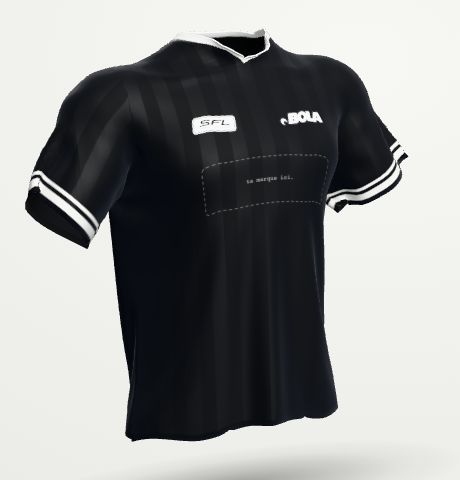
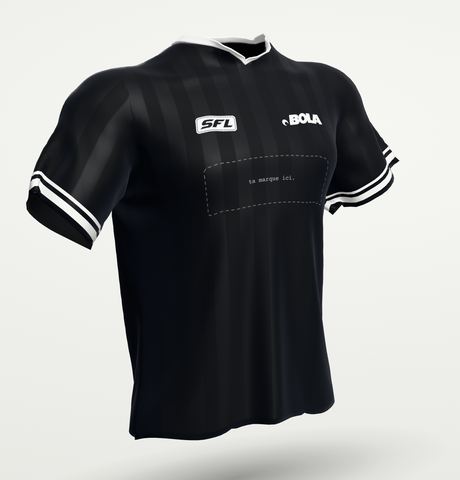
Un seul sigle SFL, redessiné à la graisse et à l'angle de BOLA (#117)
- public/bola/sfl.svg généré par tools/sigle-sfl.ts : les trois lettres du logo d'origine (S en barres et panses rondes, F au coin arrondi, L au long pied, bouts de barres en biseau), en contours arrondis cisaillés, italique de 21,8° (tan 0,4), métriques verticales du logo BOLA ; plus de ligne « — SUNDAY FIVE LEAGUE — » illisible ; --serre pour le badge du maillot et les documents
- SigleLigue : largeur SFL 54,4 pour 18 px ; à hauteur égale, SFL, BOLA et BOLA TEAM ont des lettres de la même taille (en-tête Actus, menu des ligues, Map, fiche, Ouvrir un match)
- Saisons archivées : la pastille « SFL » en mono devient le sigle
- Icônes : les routes icon-192.png et icon-512.png (« SFL » en police système) retirées, les PNG du symbole Bola de public/ servis ; favicon.ico = symbole Bola au lieu du triangle de Vercel
- Studio photo : public/avatars/maillot-blanc.png et maillot-noir.png refaits avec le nouveau badge (sabrilab/bola-site#1)

Claude-Session: https://claude.ai/code/session_01RCU4BRvNHRVEJXysszA2Dm

diff --git a/tools/sigle-sfl.ts b/tools/sigle-sfl.ts
@@ -1,0 +1,193 @@
+// Le sigle SFL (Sunday Five League), construit au compas et à la règle.
+//
+// Pourquoi : jusqu'au 23/10/2026, l'app montrait un tracé automatique du logo
+// SFL (vectorisé depuis une image de 339 × 99 px du PDF « SFL X KIPSTADIUM »),
+// avec la ligne « — SUNDAY FIVE LEAGUE — » en dessous, illisible sous 30 px.
+// Ailleurs vivaient d'autres SFL : en Saira, en Inter, en police système…
+// Sabri a voulu un seul sigle, utilisé partout.
+//
+// Ce que ce script dessine : les trois lettres du logo d'origine (le S en
+// barres horizontales et panses rondes, le F au coin arrondi, le L au long
+// pied, les bouts de barres coupés en biseau), redessinées proprement à la
+// graisse et à l'angle du logo BOLA :
+//   · italique de 21,8° (l'angle du B de la charte, tan = 0,4) ;
+//   · fûts de 45 % de la hauteur de capitale, barres de 24,5 % (BOLA : 44 % et
+//     21 à 25 %) ;
+//   · métriques verticales de public/bola/logo-*.svg : un viewBox de 237 de
+//     haut, capitales de 22,36 à 213,47. À hauteur égale (SigleLigue), SFL,
+//     BOLA et BOLA TEAM ont donc des lettres de la même taille.
+//
+// Chaque lettre est un contour à coins arrondis, tracé droit puis cisaillé :
+// x' = x + (100 − y) × 0,4 ; les arcs deviennent des courbes de Bézier, que le
+// cisaillement garde exactes.
+//
+//   npx tsx tools/sigle-sfl.ts                    écrit public/bola/sfl.svg
+//   npx tsx tools/sigle-sfl.ts <fichier>          l'écrit ailleurs
+//   npx tsx tools/sigle-sfl.ts --serre <fichier>  cadré au plus près des lettres,
+//     sans les marges du logo BOLA : le badge du maillot (bola-site,
+//     public/sponsoring/sfl.svg), qui pose le sigle dans sa propre pastille.
+
+import { writeFileSync } from "node:fs";
+import { join } from "node:path";
+
+/** Réglages du dessin, dans un repère de 100 de hauteur de capitale. */
+const P = {
+  k: 0.4, // italique : tan(21,8°)
+  T: 24.5, // épaisseur des barres
+  V: 45, // épaisseur des fûts (largeur horizontale)
+  coupe: 0.7, // biseau des bouts de barres : recul horizontal par unité d'épaisseur
+  ro: 2, // coins extérieurs
+  ri: 3, // coins intérieurs
+  rw: 2.5, // pointes des biseaux
+  RF: 24, // le coin haut gauche du F
+  WS: 128, // largeurs : S, F (barre du haut), F (barre du milieu), L
+  WF: 114,
+  WFm: 90,
+  WL: 106,
+  gSF: 8, // approches : S–F, F–L
+  gFL: 6,
+};
+
+// Métriques verticales du logo BOLA (viewBox 1000 × 237).
+const HAUT = 237;
+const BASE = 213.47;
+const CAP = 191.108;
+const MARGE = 18;
+
+type Sommet = [x: number, y: number, r: number];
+type Pt = [number, number];
+type Segment = { L: Pt } | { C: [Pt, Pt, Pt] };
+
+function glyphes(): Sommet[][] {
+  const { T, V, ro, ri, rw, WS, WF, WFm, WL } = P;
+  const C = (100 - 3 * T) / 2; // les deux contreformes du S
+  const m0 = T + C; // la barre du milieu, de m0 à m1 (S et F)
+  const m1 = m0 + T;
+  const d = P.coupe * T;
+  const RS = m1 / 2; // panses du S en demi-cercles
+  const rc = C / 2;
+  const S: Sommet[] = [
+    [WS, 0, rw], [0, 0, RS], [0, m1, RS], [WS - V, m1, rc], [WS - V, 100 - T, rc],
+    [d, 100 - T, rw], [0, 100, rw], [WS, 100, RS], [WS, m0, RS], [V, m0, rc], [V, T, rc],
+    [WS - d, T, rw],
+  ];
+  const xF = WS + P.gSF;
+  const F: Sommet[] = [
+    [0, 0, P.RF], [WF, 0, rw], [WF - d, T, rw], [V, T, ri], [V, m0, ri], [WFm, m0, rw],
+    [WFm - d, m1, rw], [V, m1, ri], [V, 100, ro], [0, 100, ro],
+  ];
+  const xL = xF + WF + P.gFL;
+  const L: Sommet[] = [[0, 0, ro], [V, 0, ro], [V, 100 - T, ri], [WL, 100 - T, rw], [WL - d, 100, rw], [0, 100, ro]];
+  const decale = (g: Sommet[], dx: number) => g.map(([x, y, r]) => [x + dx, y, r] as Sommet);
+  return [S, decale(F, xF), decale(L, xL)];
+}
+
+/** Arc de cercle de a0 à a1 (radians) en cubiques d'au plus un quart de tour. */
+function arc(cx: number, cy: number, r: number, a0: number, a1: number): [Pt, Pt, Pt][] {
+  const n = Math.max(1, Math.ceil(Math.abs(a1 - a0) / (Math.PI / 2) - 1e-9));
+  const da = (a1 - a0) / n;
+  const out: [Pt, Pt, Pt][] = [];
+  for (let i = 0; i < n; i++) {
+    const s = a0 + i * da;
+    const e = s + da;
+    const h = (4 / 3) * Math.tan((e - s) / 4);
+    const p0: Pt = [cx + r * Math.cos(s), cy + r * Math.sin(s)];
+    const p3: Pt = [cx + r * Math.cos(e), cy + r * Math.sin(e)];
+    out.push([
+      [p0[0] - h * r * Math.sin(s), p0[1] + h * r * Math.cos(s)],
+      [p3[0] + h * r * Math.sin(e), p3[1] - h * r * Math.cos(e)],
+      p3,
+    ]);
+  }
+  return out;
+}
+
+/** Un contour fermé dont chaque coin est arrondi par un arc tangent aux deux côtés. */
+function contour(pts: Sommet[]): { depart: Pt; segs: Segment[] } {
+  const n = pts.length;
+  const coins = pts.map(([x, y, r0], i) => {
+    const [px, py] = pts[(i + n - 1) % n];
+    const [nx, ny] = pts[(i + 1) % n];
+    if (r0 <= 0) return { a: [x, y] as Pt, b: [x, y] as Pt, arc: null };
+    const lp = Math.hypot(px - x, py - y);
+    const ln = Math.hypot(nx - x, ny - y);
+    const u: Pt = [(px - x) / lp, (py - y) / lp];
+    const v: Pt = [(nx - x) / ln, (ny - y) / ln];
+    const ang = Math.acos(Math.max(-1, Math.min(1, u[0] * v[0] + u[1] * v[1])));
+    let r = r0;
+    let t = r / Math.tan(ang / 2);
+    if (t > Math.min(lp, ln) / 2 + 1e-6) {
+      t = Math.min(lp, ln) / 2;
+      r = t * Math.tan(ang / 2);
+    }
+    const a: Pt = [x + u[0] * t, y + u[1] * t];
+    const b: Pt = [x + v[0] * t, y + v[1] * t];
+    const lb = Math.hypot(u[0] + v[0], u[1] + v[1]);
+    const dc = r / Math.sin(ang / 2);
+    const c: Pt = [x + ((u[0] + v[0]) / lb) * dc, y + ((u[1] + v[1]) / lb) * dc];
+    const a0 = Math.atan2(a[1] - c[1], a[0] - c[0]);
+    let da = Math.atan2(b[1] - c[1], b[0] - c[0]) - a0;
+    while (da > Math.PI) da -= 2 * Math.PI;
+    while (da < -Math.PI) da += 2 * Math.PI;
+    return { a, b, arc: { c, r, a0, a1: a0 + da } };
+  });
+  const segs: Segment[] = [];
+  for (let i = 1; i <= n; i++) {
+    const k = coins[i % n];
+    segs.push({ L: k.a });
+    if (k.arc) for (const cb of arc(k.arc.c[0], k.arc.c[1], k.arc.r, k.arc.a0, k.arc.a1)) segs.push({ C: cb });
+  }
+  return { depart: coins[0].b, segs };
+}
+
+const cisaille = ([x, y]: Pt): Pt => [x + (100 - y) * P.k, y];
+
+export function sigleSfl(couleur = "#08090B", serre = false): string {
+  const contours = glyphes().map(contour);
+  const tous = contours.flatMap((c) => [c.depart, ...c.segs.flatMap((s) => ("L" in s ? [s.L] : s.C))]).map(cisaille);
+  const x0 = Math.min(...tous.map((p) => p[0]));
+  const x1 = Math.max(...tous.map((p) => p[0]));
+  const sc = CAP / 100;
+  const dx = MARGE - x0 * sc;
+  const dy = BASE - 100 * sc;
+  const largeur = Math.round((x1 - x0) * sc + 2 * MARGE);
+  const f = (p: Pt) => {
+    const [x, y] = cisaille(p);
+    return `${+(x * sc + dx).toFixed(2)},${+(y * sc + dy).toFixed(2)}`;
+  };
+  const d = contours
+    .map(({ depart, segs }) => {
+      let s = `M${f(depart)}`;
+      let dernier = depart;
+      for (const sg of segs) {
+        if ("L" in sg) {
+          if (Math.hypot(sg.L[0] - dernier[0], sg.L[1] - dernier[1]) < 1e-6) continue;
+          s += `L${f(sg.L)}`;
+          dernier = sg.L;
+        } else {
+          s += `C${f(sg.C[0])} ${f(sg.C[1])} ${f(sg.C[2])}`;
+          dernier = sg.C[2];
+        }
+      }
+      return `${s}Z`;
+    })
+    .join("");
+  const cadre = serre
+    ? `${MARGE} ${+(BASE - CAP).toFixed(2)} ${+((x1 - x0) * sc).toFixed(2)} ${+CAP.toFixed(2)}`
+    : `0 0 ${largeur} ${HAUT}`;
+  return [
+    `<svg xmlns="http://www.w3.org/2000/svg" viewBox="${cadre}" role="img" aria-label="SFL">`,
+    `<!-- Le sigle SFL (Sunday Five League), redessiné le 23/10/2026 d'après le logo d'origine, à la graisse et à l'angle de BOLA. Généré par tools/sigle-sfl.ts : ne pas éditer à la main. -->`,
+    `<path fill="${couleur}" d="${d}"/>`,
+    `</svg>`,
+    ``,
+  ].join("\n");
+}
+
+if (import.meta.url === `file://${process.argv[1]}`) {
+  const args = process.argv.slice(2);
+  const serre = args.includes("--serre");
+  const sortie = args.find((a) => a !== "--serre") ?? join(import.meta.dirname, "..", "public", "bola", "sfl.svg");
+  writeFileSync(sortie, sigleSfl("#08090B", serre));
+  console.log(`sigle SFL${serre ? " (serré)" : ""} écrit dans ${sortie}`);
+}

diff --git a/src/components/sfl/choix-ligue.tsx b/src/components/sfl/choix-ligue.tsx
@@ -8,7 +8,9 @@
 //     joueurs ouvrent eux-mêmes (/ligue-vierge) ; régions et mondial plus tard.
 //   · Bola Team — les équipes et leurs défis (/bola-team).
 // Les badges sont les logos (public/bola/sfl.svg, logo-blanc.svg), teintés
-// comme le texte par un masque : pleins quand on y est, effacés sinon.
+// comme le texte par un masque : pleins quand on y est, effacés sinon. Le
+// sigle SFL (tools/sigle-sfl.ts, 23/10) a les métriques du logo BOLA : à
+// hauteur égale, les lettres de SFL, BOLA et BOLA TEAM ont la même taille.
 
 import Link from "next/link";
 import { useEffect, useRef, useState } from "react";
@@ -19,9 +21,11 @@ import { cn } from "@/lib/utils";
 type Actif = "/ligue" | "/ligue-vierge" | "/bola-team";
 
 const BADGES = [
-  { href: "/ligue", libelle: "SFL", src: "/bola/sfl.svg", l: 70 },
+  { href: "/ligue", libelle: "SFL", src: "/bola/sfl.svg", l: 54.4 },
   { href: "/ligue-vierge", libelle: "Bola", src: "/bola/logo-blanc.svg", l: 74 },
 ] as const;
+// l : la largeur pour 18 px de haut. BOLA (1000 × 237) tient dans 74, donc à
+// 97,4 % de sa hauteur ; SFL (735 × 237) y est réduit d'autant : 54,4.
 
 /**
  * L'en-tête des trois onglets (Actus, Bola, Team). Trois logos côte à côte,

diff --git a/src/components/sfl/feed/journees-depliables.tsx b/src/components/sfl/feed/journees-depliables.tsx
@@ -14,6 +14,7 @@
 import { useState } from "react";
 import { ChevronDown, ArrowRight } from "lucide-react";
 import { cn } from "@/lib/utils";
+import { SigleLigue } from "@/components/sfl/choix-ligue";
 import type { Journee } from "@/lib/sfl/engine";
 import { Nom } from "@/components/sfl/nom";
 
@@ -170,7 +171,7 @@ export function JourneesDepliables({
       {/* La pastille SFL — elle nomme ce qu'on regarde. */}
       <div className="flex items-center gap-3 px-1">
         <span className="flex size-10 shrink-0 items-center justify-center rounded-2xl bg-primary/15">
-          <span className="mono-label text-[10px] text-primary">SFL</span>
+          <SigleLigue ligue="sfl" hauteur={10} className="text-primary" />
         </span>
         <div className="min-w-0 flex-1">
           <h2 className="truncate text-[16px] font-bold tracking-tight">Sunday Five League</h2>
